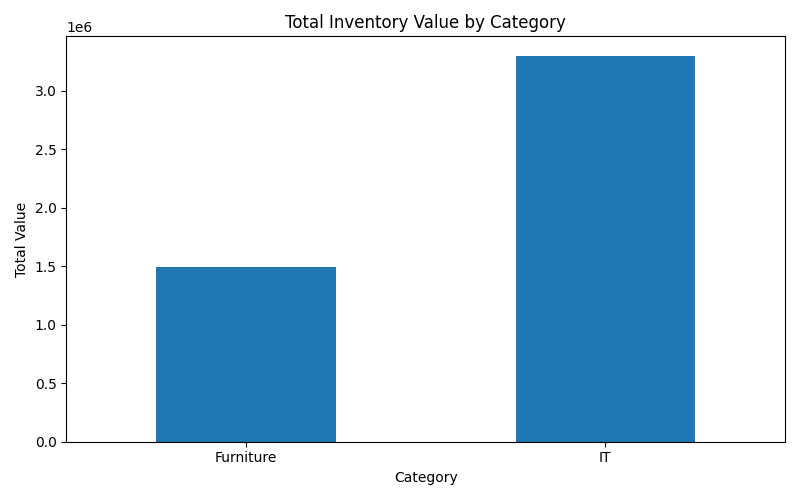
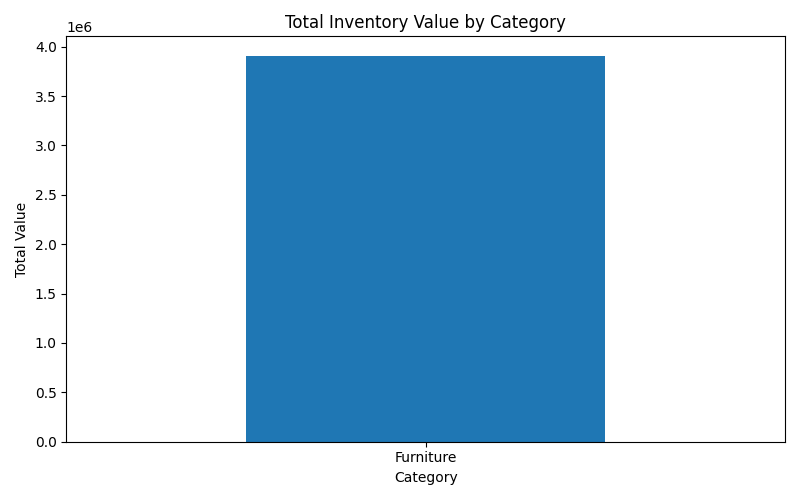
feat: add CLI filtering, top items analysis, and data visualization

diff --git a/main.py b/main.py
@@ -6,17 +6,36 @@ df = pd.read_csv("inventory.csv")
 
 # 총 재고 가치 계산
 df["total_value"] = df["price"] * df["quantity"]
-
 print("=== 전체 재고 데이터 ===")
 print(df)
 
+# 사용자 입력 받기
+threshold = int(input("\n재고 부족 기준 수량을 입력하세요 (예: 10): "))
+category_input = input("특정 카테고리만 보려면 입력하세요 (없으면 Enter): ")
+
+# 카테고리 필터 적용
+if category_input:
+    df = df[df["category"] == category_input]
+
+# 카테고리별 재고 가치
 print("\n=== 카테고리별 총 재고 가치 ===")
 category_summary = df.groupby("category")["total_value"].sum()
 print(category_summary)
 
-print("\n=== 재고 부족 상품 (10개 미만) ===")
-low_stock = df[df["quantity"] < 10]
-print(low_stock[["product_name", "category", "quantity"]])
+# 재고 부족 상품
+print("\n=== 재고 부족 상품 ===")
+low_stock = df[df["quantity"] < threshold]
+
+if low_stock.empty:
+    print("모든 상품의 재고가 충분합니다.")
+else:
+    print("⚠️ 재고 부족 경고!")
+    print(low_stock[["product_name", "category", "quantity"]])
+
+# TOP 3 상품
+print("\n=== 재고 가치 TOP 3 상품 ===")
+top_items = df.sort_values(by="total_value", ascending=False).head(3)
+print(top_items[["product_name", "category", "total_value"]])
 
 # 그래프 생성
 plt.figure(figsize=(8, 5))
@@ -25,7 +44,7 @@ plt.title("Total Inventory Value by Category")
 plt.xlabel("Category")
 plt.ylabel("Total Value")
 plt.xticks(rotation=0)
-plt.tight_layout()
+plt.tight_layout()              
 
 # 이미지 파일로 저장
 plt.savefig("category_inventory_value.png")

diff --git a/README.md b/README.md
@@ -10,9 +10,11 @@ This project was inspired by my previous warehouse management system (WMS) exper
 ---
 
 ## 🇰🇷 개요
-이 프로젝트는 **pandas**를 활용하여 재고 데이터를 분석하는 Python 입문 프로젝트입니다.
+이 프로젝트는 **pandas**와 **matplotlib**을 활용하여 재고 데이터를 분석하는 Python 기반 프로젝트입니다.
 
-CSV 파일을 읽어 데이터를 처리하고, 총 재고 가치 계산, 카테고리별 집계, 재고 부족 상품 필터링 등의 기능을 구현했습니다.
+CSV 파일을 읽어 데이터를 처리하고, 총 재고 가치 계산, 카테고리별 집계, 재고 부족 상품 탐지, 시각화 기능을 구현했습니다.
+
+또한 CLI 기반 사용자 입력을 통해 재고 기준 및 카테고리 필터를 동적으로 설정할 수 있도록 구현했습니다.
 
 이전 WMS 프로젝트 경험을 바탕으로 데이터 처리 및 분석 흐름을 학습하는 것을 목표로 진행했습니다.
 
@@ -24,13 +26,19 @@ CSV 파일을 읽어 데이터를 처리하고, 총 재고 가치 계산, 카테
 - Load inventory data from CSV
 - Calculate total inventory value (`price * quantity`)
 - Group data by category
-- Filter low-stock items
+- Filter low-stock items based on user-defined threshold
+- Identify top 3 items by inventory value
+- Category-based filtering using user input
+- Data visualization using matplotlib
 
 ### 🇰🇷
 - CSV 파일 기반 재고 데이터 로딩
 - 총 재고 가치 계산 (`price * quantity`)
 - 카테고리별 데이터 집계
-- 재고 부족 상품 필터링
+- 사용자 입력 기반 재고 부족 기준 설정
+- 재고 가치 기준 상위 3개 상품 추출
+- 카테고리 필터링 기능
+- matplotlib을 활용한 시각화 
 
 ---
 
@@ -38,52 +46,77 @@ CSV 파일을 읽어 데이터를 처리하고, 총 재고 가치 계산, 카테
 
 - Python
 - pandas
+- matplotlib
+
+---
+
+## ▶️ How to Run
+
+```bash
+python3 main.py
 
 ---
 
 ## 📂 Project Structure
-python_study/
- ├── main.py
- ├── inventory.csv
- └── README.md
+
+ python-inventory-analysis/
+├── main.py
+├── inventory.csv
+├── category_inventory_value.png
+└── README.md
 
 ---
 
 ## 📌 Key Implementation / 핵심 구현
 🇺🇸
-	•	Used pandas DataFrame to process tabular data
-	•	Applied column-based operations for calculations
-	•	Used groupby() for aggregation
-	•	Implemented conditional filtering
+- Used pandas DataFrame to process tabular data
+- Applied column-based operations for calculating inventory value
+- Used groupby() for category-based aggregation
+- Implemented conditional filtering for low-stock detection
+- Stored data to extract top-value inventory items
+- Implemented CLI-based user input for dynamic filtering
+- Generated bar chart visualization using matplotlib
+
 
 🇰🇷
-	•	pandas DataFrame을 활용한 표 형태 데이터 처리
-	•	컬럼 연산을 통한 데이터 계산
-	•	groupby()를 활용한 집계 처리
-	•	조건 기반 데이터 필터링 구현
+- pandas DataFrame을 활용한 표 형태 데이터 처리
+- 컬럼 연산을 통한 데이터 계산
+- groupby()를 활용한 카테고리별 집계 처리
+- 조건 기반 재고 부족 상품 탐지
+- 정렬을 활용한 상위 재고 가치 상품 추출
+- CLI 기반 사용자 입력 처리 기능 구현
+- matplotlib을 활용한 막대그래프 시각화
 
  
  ---
  ## 💡 What I Learned / 배운 점
  🇺🇸
-	•	Basic usage of pandas for data processing
-	•	Understanding differences between SQL and Python-based data handling
-	•	Structuring a simple data analysis workflow
+- Basic usage of pandas for data processing and analysis
+- Differences between SQL and Python-based data handling
+- Structuring a simple data analysis workflow
+- Handling user input in CLI-based programs
+- Visualizing data using matplotlib
 
 🇰🇷
-	•	pandas를 활용한 데이터 처리 기초
-	•	SQL과 Python 기반 데이터 처리 방식의 차이 이해
-	•	간단한 데이터 분석 흐름 구성 경험
+- pandas를 활용한 데이터 처리 및 분석 기초
+- SQL과 Python 기반 데이터 처리 방식의 차이 이해
+- 간단한 데이터 분석 흐름 설계 경험
+- CLI 기반 사용자 입력 처리 방식 이해
+- matplotlib을 활용한 데이터 시각화 경험 
 
 ---
 ## 🔜 Future Improvements / 향후 개선
 🇺🇸
-	•	Add data visualization using matplotlib
-	•	Expand dataset for more realistic analysis
+- Add error handling for invalid user input
+- Improve CLI UX with menu-based interaction
+- Expand dataset for more realistic analysis
+- Add additional analytics(e.g., percentage distribution)
 
 🇰🇷
-	•	matplotlib을 활용한 시각화 기능 추가
-	•	데이터 확장 및 분석 기능 고도화
+- 잘못된 입력 값에 대한 예외 처리 추가
+- 메뉴 기반 CLI 구조로 UX 개선
+- 데이터 확장 및 현실적인 시나리오 반영
+- 비율 분석 등 추가 지표 구현 
 
 ---
 ## 📈 Visualization / 시각화